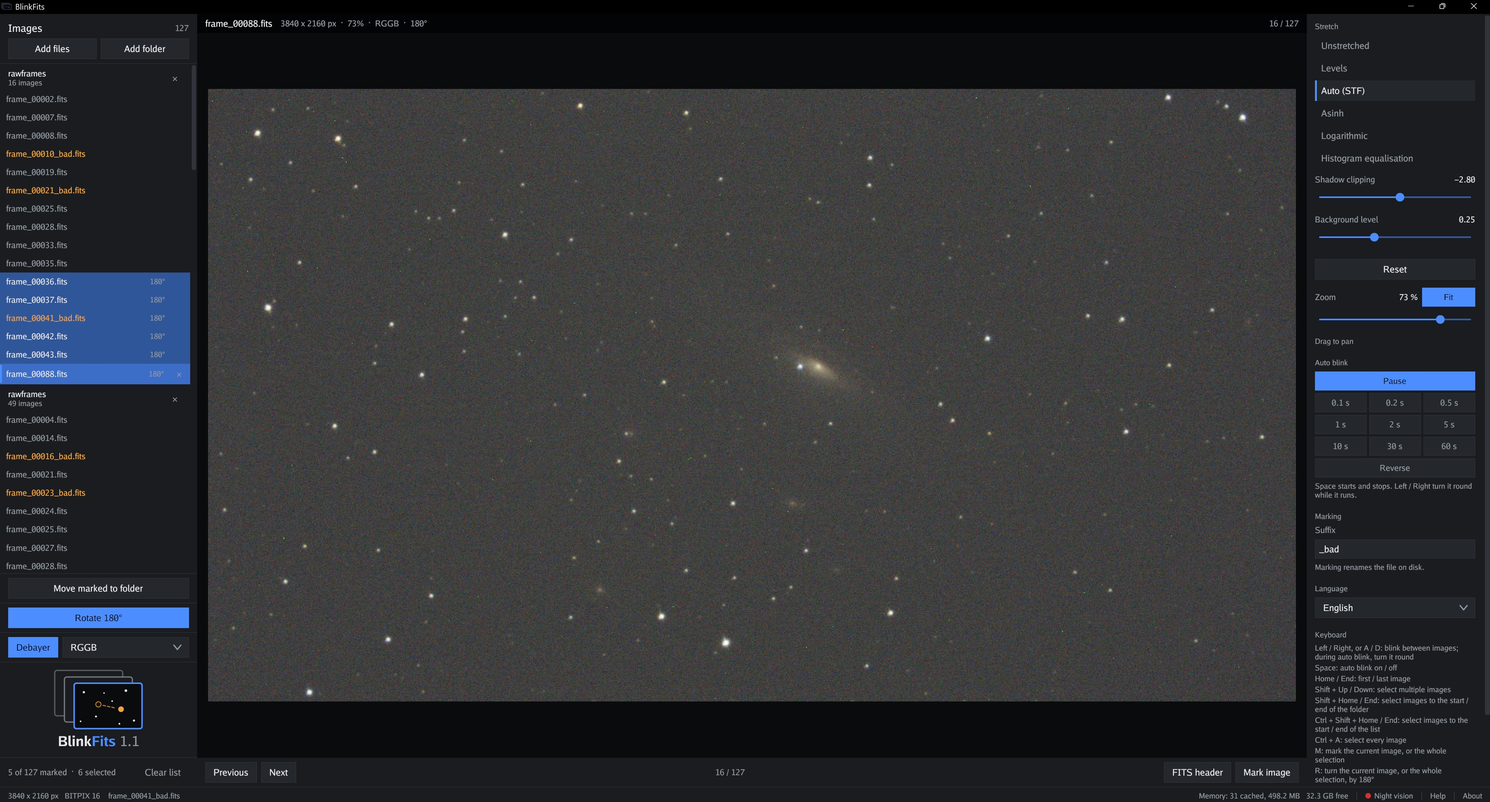
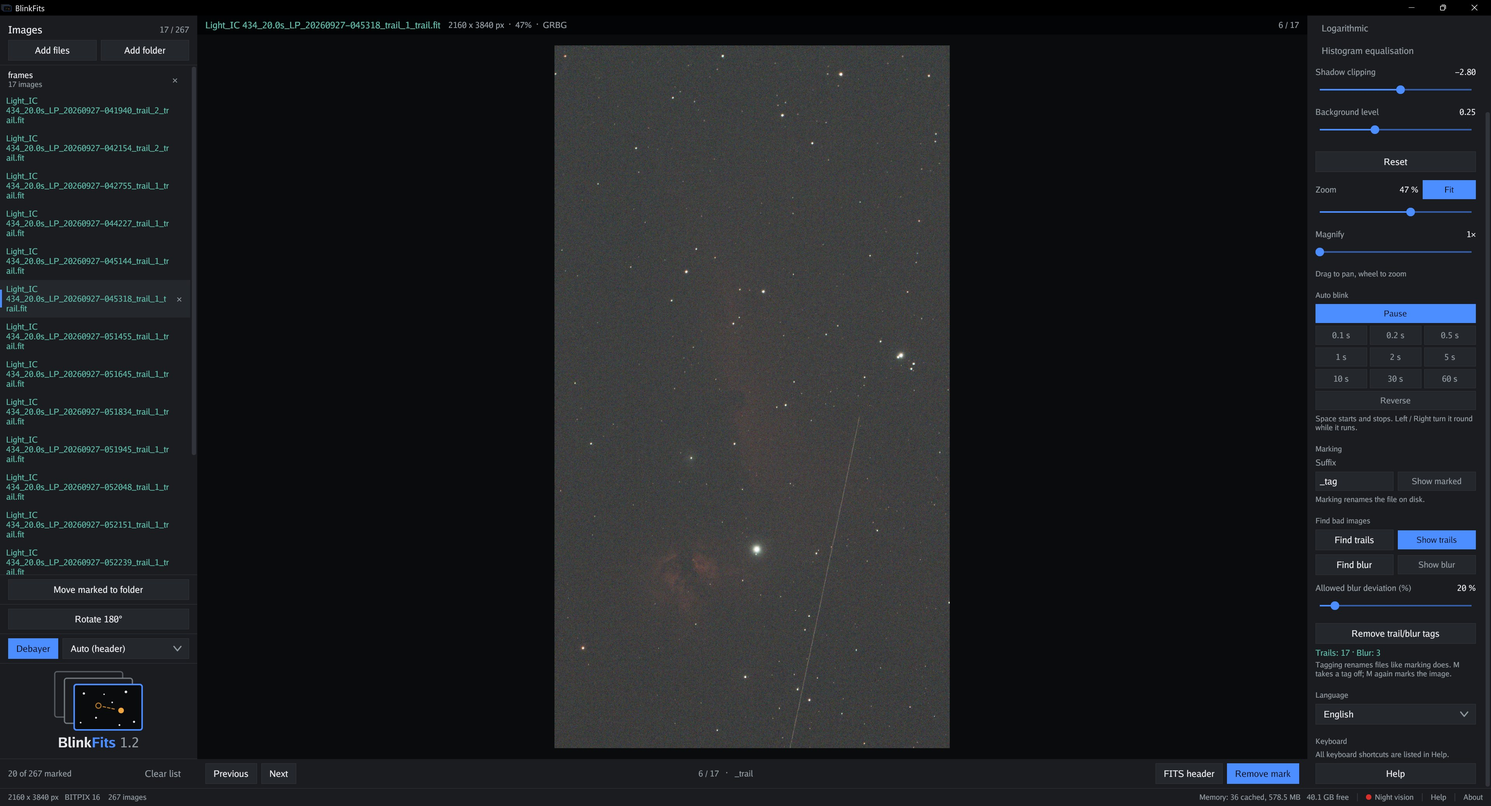
feat: release 1.2

diff --git a/content/astronomy/blinkfits.md b/content/astronomy/blinkfits.md
@@ -145,7 +145,7 @@ html[data-bs-theme="dark"] .bf {
 
 <div class="bf-hero">
 <div>
-<div class="bf-brand"><img src="/astronomy/blinkfits-icon.png" alt="" width="32" height="32"><span>Blink<span class="fits">Fits</span> <span class="ver">1.1</span></span></div>
+<div class="bf-brand"><img src="/astronomy/blinkfits-icon.png" alt="" width="32" height="32"><span>Blink<span class="fits">Fits</span> <span class="ver">1.2</span></span></div>
 <p class="eyebrow">Lightweight FITS viewer for Windows</p>
 <p class="headline">Find bad frames, stack only the good ones.</p>
 <p class="lead">BlinkFits can auto-detect and mark frames with satellite trails, soft stars or passing clouds. Blink through your frames with zoom, pan and stretch held perfectly still. Throw bad subs out before you stack and get only the best data.</p>
@@ -157,8 +157,8 @@ html[data-bs-theme="dark"] .bf {
 <p class="hint">Extract the zip, then run <code>blinkfits.exe</code>. No installer needed.</p>
 <p class="hint">Need an older version? <a href="https://github.com/raphideb/blinkfits_release/releases">All releases are on GitHub</a>.</p>
 <div class="sha">
-<div class="sha-label"><span>SHA-256 of <code>blinkfits.exe</code>, version 1.1</span><span id="bf-copied" aria-live="polite"></span></div>
-<div class="sha-box"><code id="bf-check">f4feabfff7dfa7863716215ce9c8ba78deff053261f516b5b074f78ee8fcd040</code><button class="copy" id="bf-copy" type="button">Copy</button></div>
+<div class="sha-label"><span>SHA-256 of <code>blinkfits.exe</code>, version 1.2</span><span id="bf-copied" aria-live="polite"></span></div>
+<div class="sha-box"><code id="bf-check">1bdd30edc5f8292f92c4a349fd6a2cf5cd96482cf625ea13f469b1e9261308e0</code><button class="copy" id="bf-copy" type="button">Copy</button></div>
 <p class="hint">How to check the exe against it, and what to do when Windows warns you: <a href="#download-help">see below</a>.</p>
 </div>
 <ul class="facts">
@@ -191,30 +191,28 @@ html[data-bs-theme="dark"] .bf {
 </div>
 
 <div class="bf-news">
-<p class="head">New version 1.1 released!<span class="date">21 September 2026</span></p>
+<p class="head">New version 1.2 released!<span class="date">27 September 2026</span></p>
 <dl>
-<dt>Select multiple images</dt>
-<dd>You can now mark, rotate or blink through several images at once. There are several ways to select them:
-<ul>
-<li><kbd>Shift</kbd> + <kbd>↑</kbd> / <kbd>↓</kbd> extends the selection up or down.</li>
-<li><kbd>Shift</kbd> + <kbd>Home</kbd> / <kbd>End</kbd> selects up to the first or last image of the folder.</li>
-<li><kbd>Ctrl</kbd> + <kbd>Shift</kbd> + <kbd>Home</kbd> / <kbd>End</kbd> selects up to the first or last image of the whole list.</li>
-<li><kbd>Ctrl</kbd> + <kbd>A</kbd> selects everything.</li>
-<li><kbd>Ctrl</kbd> + click adds or removes a single frame.</li>
-</ul>
-</dd>
-<dt>Blink just the selection</dt>
-<dd>With two or more frames selected, auto blink walks only those. That way you compare just the subs you care about.</dd>
-<dt>Rotate images</dt>
-<dd><kbd>R</kbd> turns the selected frames by 180°, on screen only. After a meridian flip, go to the first frame taken after it, press <kbd>Shift</kbd> + <kbd>End</kbd> and then <kbd>R</kbd>. Now all frames face the same way.</dd>
-<dt>Every key in Help</dt>
-<dd>The keyboard reference now sits at the top of the Help page, as a table of keys and what they do.</dd>
+<dt>Find satellite trails</dt>
+<dd><b>Find trails</b> looks through every image for the straight lines that satellites and planes leave behind, and tags those files with <code>_trail</code>.</dd>
+<dt>Find blurry frames</dt>
+<dd><b>Find blur</b> compares the stars in every image with those in the sharpest frame. Frames whose stars are larger than <b>Allowed blur deviation</b> permits are tagged with <code>_blur</code>.</dd>
+<dt>Check what was found</dt>
+<dd><b>Show trails</b>, <b>Show blur</b> and <b>Show marked</b> limit the list and blinking to those images, so you can check each one before you move it away.</dd>
+<dt>Zoom with the mouse wheel</dt>
+<dd>The mouse wheel over the image zooms in and out around the pointer.</dd>
+<dt>Magnify frames up to 10x</dt>
+<dd>The new <b>Magnify</b> slider carries on where <b>Zoom</b> stops at 100 percent, so you can look at single stars pixel by pixel.</dd>
+<dt>Moving is quicker</dt>
+<dd>Press <kbd>X</kbd> to open <b>Move marked to folder</b>. The dialog starts in the folder you used last, and images tagged <code>_trail</code> or <code>_blur</code> move along with your marked ones.</dd>
+<dt>Help rewrite</dt>
+<dd>The help section has been completely restructured and now has a table of contents.</dd>
 </dl>
 </div>
 
 <figure class="shot">
-<img src="/astronomy/blinkfits-screenshot.jpg" width="1600" height="1157" loading="lazy" alt="BlinkFits with 210 raw frames of NGC 7331 loaded: file list with Move marked to folder on the left, the debayered frame in the middle, stretch, zoom, auto blink, marking suffix and language settings on the right, seven frames marked with the _bad suffix">
-<figcaption>BlinkFits with 210 raw frames of NGC 7331. Every sub is debayered from the Bayer pattern in its header and shown with the Auto (STF) stretch. Seven frames are marked with the _bad suffix, so they are shown in orange. Rotated images carry a 180° symbol in the list.</figcaption>
+<img src="/astronomy/blinkfits-screenshot.jpg" width="1600" height="865" loading="lazy" alt="BlinkFits with 267 raw frames of IC 434 loaded and Show trails on: the list on the left holds only the 17 frames tagged _trail, the middle shows frame 6 of 17 with a satellite trail running across its lower right, and the right panel shows the Find bad images section with Trails: 17 · Blur: 3">
+<figcaption>BlinkFits with 267 raw frames of IC 434. Find trails has tagged 17 of them, and Show trails narrows the list and blinking to just those frames. In frame 6 the satellite trail is easy to see, so you can check each find before you move it out of the stack.</figcaption>
 </figure>
 
 ## From raw subs to a clean stack {#workflow}
@@ -228,7 +226,7 @@ A night's work goes like this:
 1. Press **Add folder** and add the folders of the night.
 2. Press **Find trails** and **Find blur**. They tag the obvious rejects for you.
 3. Blink through the rest. Press <kbd>M</kbd> on anything the filters missed, such as a passing cloud.
-4. Press <kbd>X</kbd>. Every marked and tagged frame moves into a folder of its own.
+4. Press <kbd>X</kbd> and pick a folder. Every marked and tagged frame moves there.
 5. Stack what is left.
 
 </div>
@@ -241,7 +239,7 @@ A night's work goes like this:
 <p>With hundreds of subs, going through them one by one takes a long time. Two filters do the first pass:</p>
 <ul>
 <li><b>Find trails</b> tags frames crossed by a satellite or an aircraft.</li>
-<li><b>Find blur</b> tags frames whose stars are bloated or gone, compared with the sharpest frame. You set how much deviation you allow.</li>
+<li><b>Find blur</b> tags frames whose stars are bloated or gone, compared with the sharpest frame. With <b>Allowed blur deviation</b> you set how much larger the stars may be.</li>
 </ul>
 <p>A tag renames the file: <code>frame.fits</code> becomes <code>frame_trail.fits</code> or <code>frame_blur.fits</code>. <b>Show trails</b> and <b>Show blur</b> blink through just those frames, so you can check every find.</p>
 <p>If a filter got one wrong, press <kbd>M</kbd> on it and the tag comes off.</p>
@@ -258,9 +256,7 @@ A night's work goes like this:
 </div>
 <div class="card">
 <h3>The view never moves</h3>
-<p>Zoom, pan and stretch belong to the viewer, not to the frame. When you switch images, only the sky changes. That is what makes a trail or a soft frame jump out.</p>
-<p>The mouse wheel zooms around the pointer, from 5 % up to 10×. That way you can check a trail or a star pixel by pixel.</p>
-</div>
+<p>Zoom, pan and stretch belong to the viewer, not to the frame. When you switch images, only the sky changes. That is what makes a trail or a soft frame jump out.</p></div>
 <div class="card">
 <h3>Auto blink</h3>
 <p>Auto blink runs through the frames on its own, at 0.1 s to 60 s per frame, and wraps round at both ends. You steer it like this:</p>
@@ -291,7 +287,8 @@ A night's work goes like this:
 </div>
 <div class="card">
 <h3>Zoom in</h3>
-<p>Zoom in and magnify a frame up to 1000% if you want to compare frames at a pixel level. Use a slider or the mousewheel to control zoom levels.</p>
+<p><b>Zoom</b> shows a frame at 5 to 100 percent, and <b>Magnify</b> carries on up to 10×, so you can compare frames pixel by pixel.</p>
+<p>The mouse wheel runs through every step and zooms around the pointer.</p>
 </div>
 <div class="card">
 <h3>Several folders</h3>
